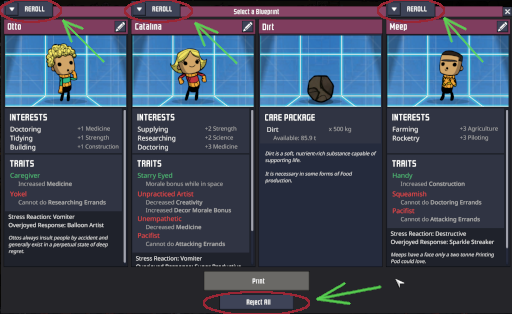
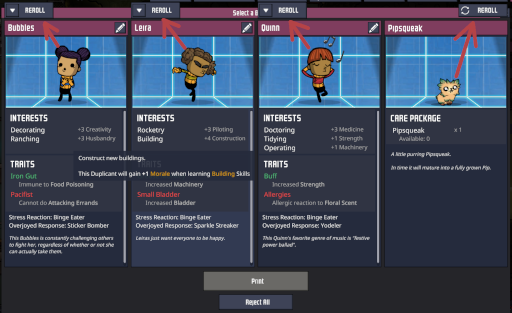
docs: 1.3.0 changes to {readme, changelog, mod_info, image}

diff --git a/README.md b/README.md
@@ -4,11 +4,9 @@
 
  ### Description:
     
-- Re-roll blueprints from telepad on 'reject all' confirming
-- adds standard "Reroll" button above each suggested duplicant
-- keeps blueprints after all rejected and ESC pressed, but unpause is required (in case game was paused)
+- adds standard "Reroll" button above each suggested duplicant and care package
+- suppress "Reject All" button confirmation
 
 ### Install:
 
 - [the latest release](https://github.com/madzohan/oniMods/releases/latest)
- 

diff --git a/RePrint/src/CHANGELOG.md b/RePrint/src/CHANGELOG.md
@@ -29,3 +29,9 @@ and this project adheres to [Semantic Versioning](https://semver.org/spec/v2.0.0
 
 - "reject all" behaviour: now it keeps blueprints after all rejected and ESC pressed, but unpause is required (in case game was paused)
 - CLRF endings replaced with LF
+
+## [1.3.0] - 2022-12-26
+
+### Added
+- added Reroll button for care packages
+- reverted vanilla "Reject All" button behavior (but with suppressed confirmation)
